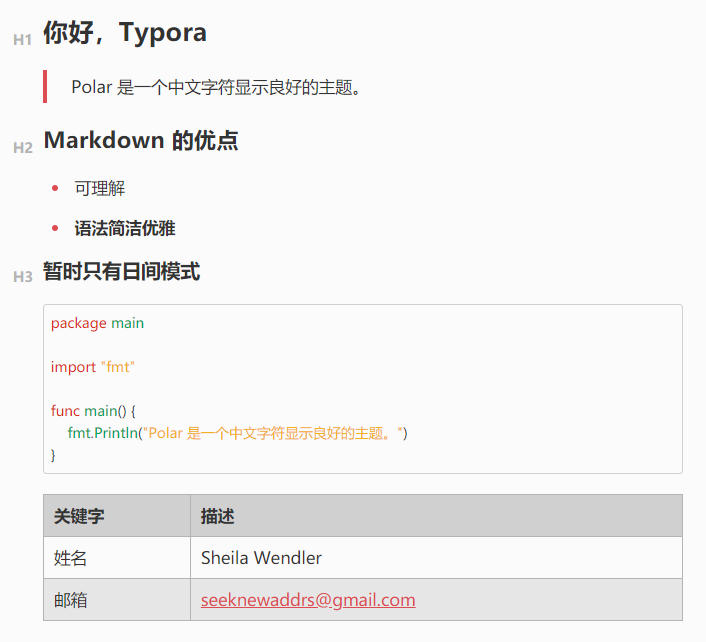
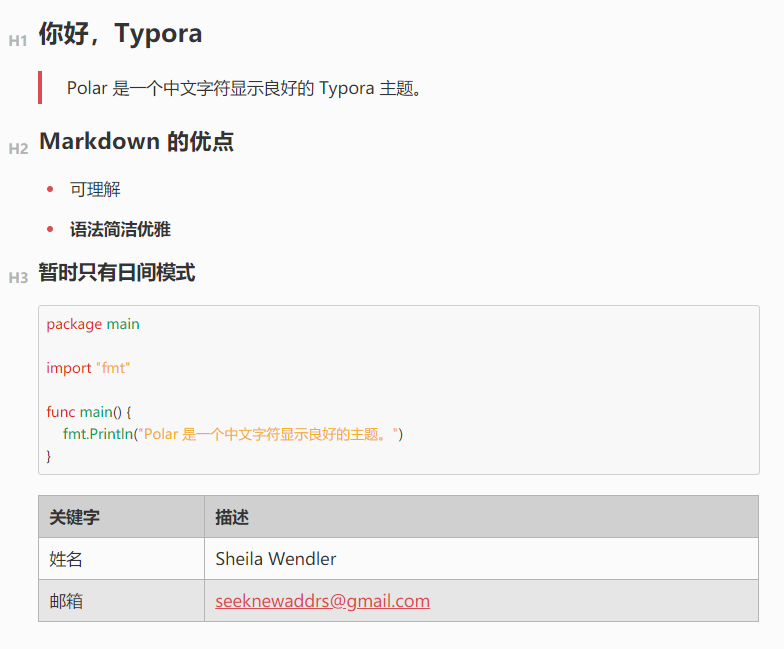
Modify: code block's background

diff --git a/polar.css b/polar.css
@@ -1,4 +1,5 @@
 /* 字体设置 */
+
 @font-face {
     font-family: 'PingFang';
     font-style: normal;
@@ -234,7 +235,7 @@ blockquote::before {
     left: -2rem;
     height: 100%;
     width: .25rem;
-    background: #428bca;
+    background: #db4d52;
 }
 
 code, .md-fences, tt {
@@ -273,10 +274,12 @@ td, th {
 }
 
 /* 默认输入文字属性 */
+
 #write {
     position: static;
+    /* 设置最大显示面积 */
     width: 90%;
-    max-width: 700px;
+    max-width: 1000px;
     line-height: 2;
     transform: none;
 }
@@ -1167,8 +1170,13 @@ footer.ty-footer {
 }
 
 /* 设置代码块行间距 */
+
 .CodeMirror {
     line-height: 1.6;
+}
+
+.CodeMirror.cm-s-inner {
+    background-color: #f8f8f8;
 }
 
 #fences-auto-suggest .active {
